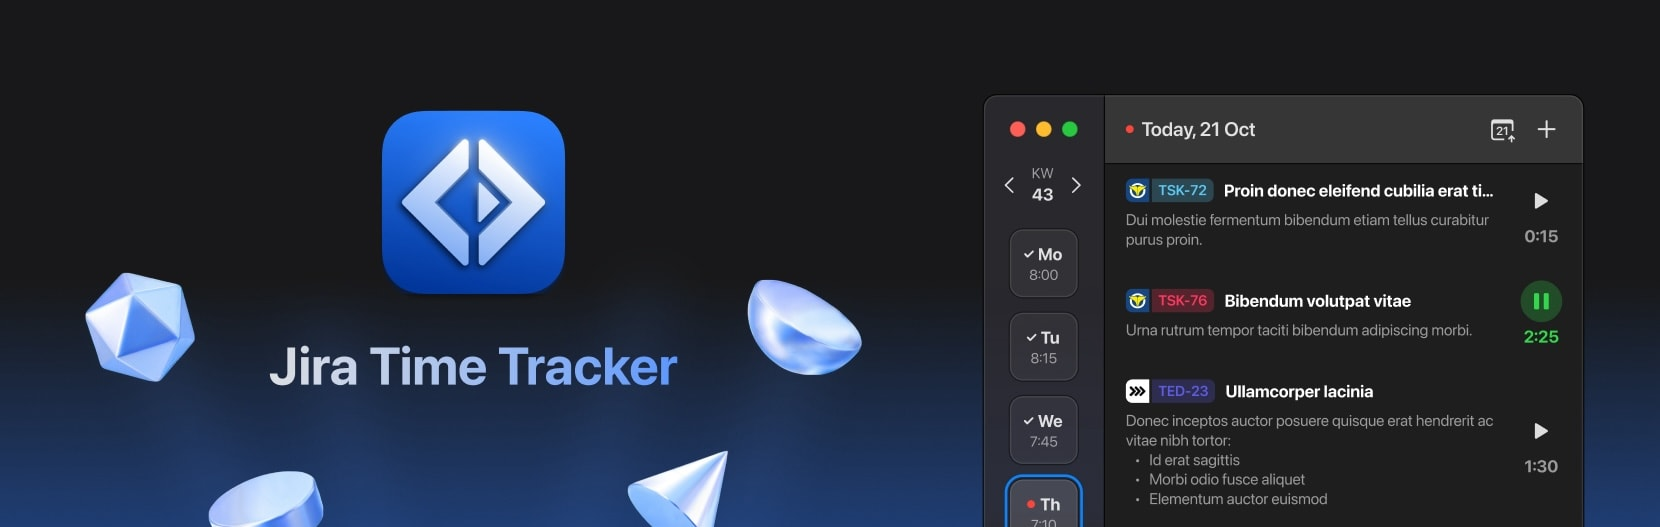
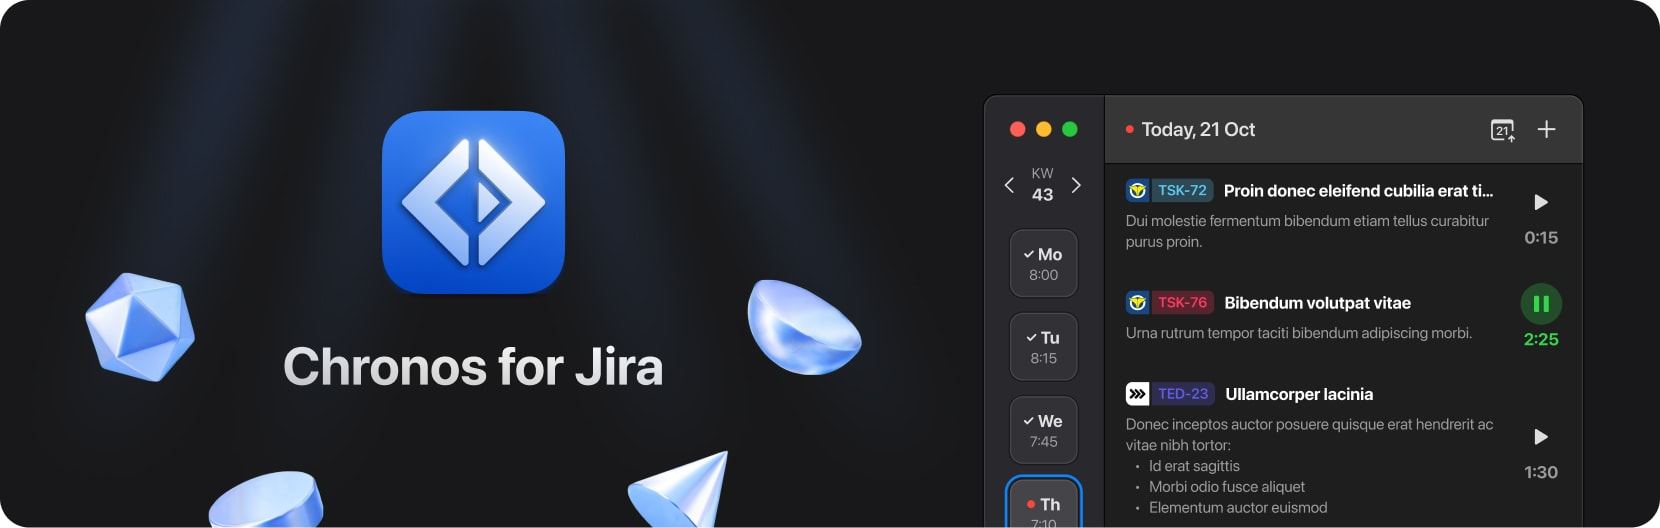
🧹 chore: rename app to chronos

diff --git a/README.md b/README.md
@@ -1,6 +1,6 @@
-![The Jira Time Tracker app icon with an UI screenshot](.github/repo-header.jpg)
+![Chronos app icon with an UI screenshot](.github/repo-header.jpg)
 
-**Jira Time Tracker** is an app to track time spent on Jira issues. It is built with React Native and will soon be available for MacOS and Windows.
+**Chronos for Jira** is an app to track time spent on Jira issues. It is built with React Native and will soon be available for MacOS and Windows.
 The project is still in development, we got an open beta for MacOS though.
 You can join the beta by following the instructions [here](https://testflight.apple.com/join/mB7ZA6s5).
 
